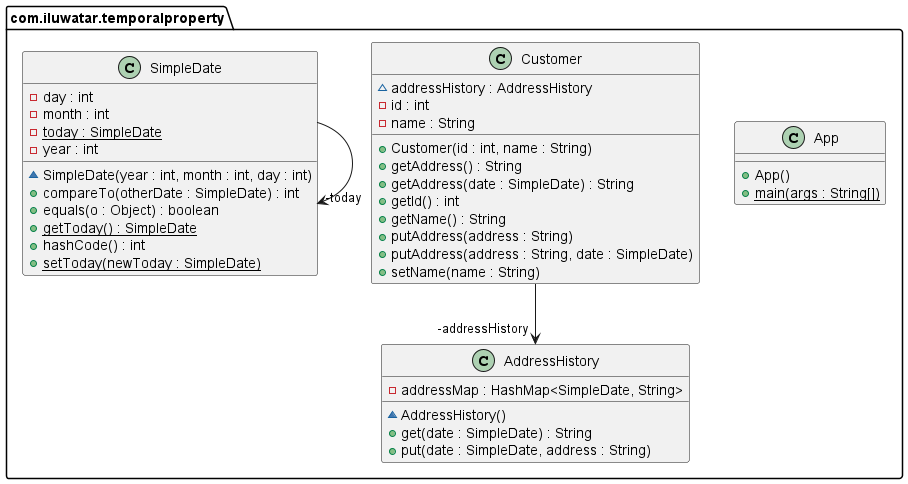
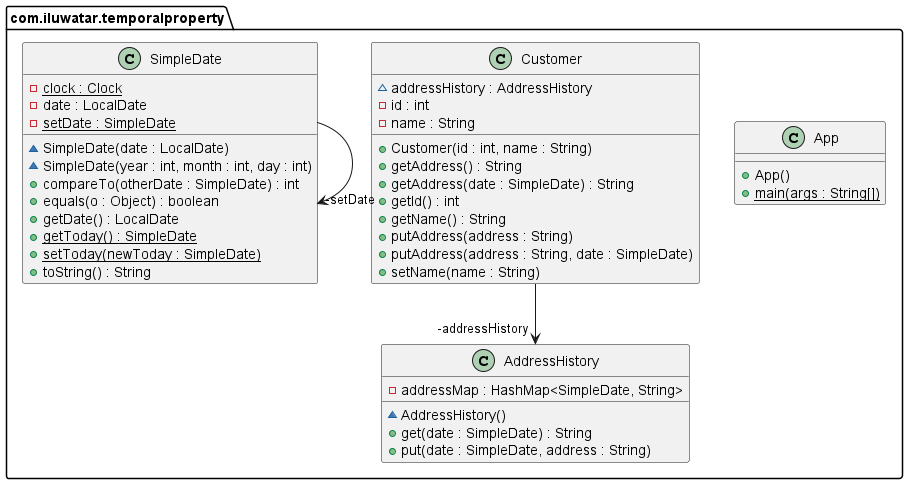
Adding changes suggested by review

Changed region(s): [[0.0308, 0.093, 0.3392, 0.5888], [0.37, 0.4029, 0.4009, 0.4339]]

diff --git a/temporal-property/src/main/java/com/iluwatar/temporalproperty/SimpleDate.java b/temporal-property/src/main/java/com/iluwatar/temporalproperty/SimpleDate.java
@@ -25,23 +25,27 @@
 
 package com.iluwatar.temporalproperty;
 
+import java.time.Clock;
+import java.time.Instant;
+import java.time.LocalDate;
+import java.time.ZoneId;
 import java.util.Objects;
 
 /**
- * Class that is used to wrap year, month, day values without correction.
- * Note that this class also does not consider different time zones being used in an implementation.
+ * Class that is used to have global now variables for LocalDate.
  */
 public class SimpleDate implements Comparable<SimpleDate> {
-  private final int year;
-  private final int month;
-  private final int day;
+  private static Clock clock = Clock.systemUTC();
+  private static SimpleDate setDate = null;
 
-  private static SimpleDate today = new SimpleDate(0, 0, 0);
+  private LocalDate date;
 
   SimpleDate(int year, int month, int day) {
-    this.year = year;
-    this.month = month;
-    this.day = day;
+    date = LocalDate.of(year, month, day);
+  }
+
+  SimpleDate(LocalDate date) {
+    this.date = date;
   }
 
   @Override
@@ -53,46 +57,25 @@ public class SimpleDate implements Comparable<SimpleDate> {
       return false;
     }
     SimpleDate that = (SimpleDate) o;
-    return year == that.year && month == that.month && day == that.day;
-  }
-
-  @Override
-  public int hashCode() {
-    return Objects.hash(year, month, day);
+    return date.equals(that.date);
   }
 
   @Override
   public int compareTo(SimpleDate otherDate) {
-    if (equals(otherDate)) {
-      return 0;
-    }
+    return date.compareTo(otherDate.getDate());
+  }
 
-    if (year > otherDate.year) {
-      return 1;
-    } else if (year < otherDate.year) {
-      return -1;
-    }
-
-    if (month > otherDate.month) {
-      return 1;
-    } else if (month < otherDate.month) {
-      return -1;
-    }
-
-    if (day > otherDate.day) {
-      return 1;
-    } else {
-      return -1;
-    }
+  public LocalDate getDate() {
+    return date;
   }
 
   /**
    * Set the value considered to be today by the simple date.
    *
-   * @param newToday The date to be set as 'today'.
+   * @param newToday The date to be used for today.
    */
   public static void setToday(SimpleDate newToday) {
-    today = newToday;
+    setDate = newToday;
   }
 
   /**
@@ -101,6 +84,14 @@ public class SimpleDate implements Comparable<SimpleDate> {
    * @return The date set to day
    */
   public static SimpleDate getToday() {
-    return today;
+    if (setDate != null) {
+      return setDate;
+    }
+    return new SimpleDate(LocalDate.now(clock));
+  }
+
+  @Override
+  public String toString() {
+    return date.toString();
   }
 }

diff --git a/temporal-property/src/test/java/com/iluwatar/temporalproperty/SimpleDateTest.java b/temporal-property/src/test/java/com/iluwatar/temporalproperty/SimpleDateTest.java
@@ -27,50 +27,23 @@ package com.iluwatar.temporalproperty;
 import org.junit.jupiter.api.Test;
 import org.junit.jupiter.api.BeforeEach;
 
+import java.time.Instant;
+
 import static org.junit.jupiter.api.Assertions.*;
 
 public class SimpleDateTest {
 
-    @BeforeEach
-    public void setup(){
-        SimpleDate.setToday(new SimpleDate(0,0,0));
-    }
-
     @Test
     public void todaySetCorrectly() {
-        SimpleDate newToday = new SimpleDate(1,2,3);
+        SimpleDate newToday = new SimpleDate(2,3,4);
 
         SimpleDate.setToday(newToday);
         assertEquals(newToday, SimpleDate.getToday());
     }
 
     @Test
-    public void dateComparison(){
-        SimpleDate less = new SimpleDate(1,2,3);
-        SimpleDate middle = new SimpleDate(2, 3, 1);
-        SimpleDate equalMiddle = new SimpleDate(2, 3, 1);
-        SimpleDate more = new SimpleDate(3, 1, 2);
-
-        assertEquals(0, middle.compareTo(equalMiddle));
-
-        assertEquals(-1, less.compareTo(middle));
-        assertEquals(-1, less.compareTo(more));
-
-        assertEquals(-1, middle.compareTo(more));
-        assertEquals(1, middle.compareTo(less));
-
-        assertEquals(1, more.compareTo(less));
-        assertEquals(1, more.compareTo(middle));
-
-        assertEquals(1, new SimpleDate(1,0,0).compareTo(new SimpleDate(0,0,0)));
-        assertEquals(-1, new SimpleDate(0,0,0).compareTo(new SimpleDate(1,0,0)));
-
-        assertEquals(1, new SimpleDate(0,1,0).compareTo(new SimpleDate(0,0,0)));
-        assertEquals(-1, new SimpleDate(0,0,0).compareTo(new SimpleDate(0,1,0)));
-
-        assertEquals(1, new SimpleDate(0,0,1).compareTo(new SimpleDate(0,0,0)));
-        assertEquals(-1, new SimpleDate(0,0,0).compareTo(new SimpleDate(0,0,1)));
-
-        assertNotEquals(null, less);
+    public void correctString(){
+        SimpleDate jul1 = new SimpleDate(1932, 7, 1);
+        assertEquals(jul1.getDate().toString(), jul1.toString());
     }
 }

diff --git a/temporal-property/src/main/java/com/iluwatar/temporalproperty/App.java b/temporal-property/src/main/java/com/iluwatar/temporalproperty/App.java
@@ -22,8 +22,10 @@
  * OUT OF OR IN CONNECTION WITH THE SOFTWARE OR THE USE OR OTHER DEALINGS IN
  * THE SOFTWARE.
  */
+
 package com.iluwatar.temporalproperty;
 
+import lombok.extern.slf4j.Slf4j;
 
 /**
  * The Temporal Property pattern is a property that changes over time.
@@ -35,6 +37,7 @@ package com.iluwatar.temporalproperty;
  * In particular, the history of all addresses are stored within a {@link AddressHistory}
  * instance which is an implementation of Temporal Property described as a Temporal Collection</p>
  */
+@Slf4j
 public class App {
 
   /**
@@ -45,7 +48,7 @@ public class App {
   public static void main(String[] args) {
     Customer john = new Customer(1234, "John");
 
-    // set today's calandar date to 1st January 2000
+    // set today's calendar date to 1st January 2000
     SimpleDate.setToday(new SimpleDate(2000, 1, 1));
 
     // set john's address at different points in time
@@ -59,11 +62,11 @@ public class App {
     SimpleDate.setToday(new SimpleDate(2000, 1, 2));
 
     // get john's address today
-    System.out.println("John lives at " + john.getAddress() + " today");
-    // get the address that john lived at on the 3rd of June 1997
-    System.out.println("John lived at " + john.getAddress(new SimpleDate(1997, 7, 3))
-            + " on the 3rd of June 1997");
+    LOGGER.info("John lives at " + john.getAddress() + " today");
 
+    // get the address that john lived at on the 3rd of June 1997
+    LOGGER.info("John lived at " + john.getAddress(new SimpleDate(1997, 7, 3))
+            + " on the 3rd of June 1997");
 
   }
 }

diff --git a/temporal-property/src/main/java/com/iluwatar/temporalproperty/Customer.java b/temporal-property/src/main/java/com/iluwatar/temporalproperty/Customer.java
@@ -31,7 +31,7 @@ public class Customer {
   private final int id;
   private String name;
 
-  AddressHistory addressHistory;
+  private final AddressHistory addressHistory;
 
   /**
    * Create new customer.

diff --git a/temporal-property/README.md b/temporal-property/README.md
@@ -5,8 +5,8 @@ folder: temporal-property
 permalink: /patterns/temporal-property/
 categories:
 - creational 
-  language: en 
-  tags:
+language: en 
+tags:
 - Data Access
 ---
 
@@ -40,6 +40,122 @@ Martin Fowler says
 
 **Programmatic Example**
 
+In this example, each `Customer` is an object with their address being a `TemporalProperty`. The 
+addresses are stored within an `AddressHistory`.
+
+Here are the relevant parts of `Customer`
+```java
+public class Customer {
+  private final int id;
+  private String name;
+
+  AddressHistory addressHistory;
+  
+  public Customer(int id, String name) {
+    this.id = id;
+    this.name = name;
+    addressHistory = new AddressHistory();
+  }
+  
+  public void putAddress(String address, SimpleDate date) {
+    addressHistory.put(date, address);
+  }
+  
+  public String getAddress(SimpleDate date) throws IllegalStateException {
+    return addressHistory.get(date);
+  }
+}
+```
+
+And here are the relevant parts of `AddressHistory`, which gets the 'best' address for a given date.
+
+```java
+public class AddressHistory {
+  private HashMap<SimpleDate, String> addressMap;
+  
+  AddressHistory() {
+    addressMap = new HashMap<>();
+  }
+  
+  public String get(SimpleDate date) throws IllegalStateException {
+    // The most recent date recorded before the given date
+    SimpleDate mostRecent = null;
+
+    for (Map.Entry<SimpleDate, String> entry : addressMap.entrySet()) {
+      SimpleDate checkDate = entry.getKey();
+      // 0 if date = check, 1 if check > date, -1 if check < date
+      int afterDate = checkDate.compareTo(date);
+
+      // given date is in map, return the address.
+      if (afterDate == 0) {
+        return entry.getValue();
+      }
+      // date being checked is after the requested.
+      if (afterDate > 0) {
+        continue;
+      }
+
+      // if first date found before the given date
+      if (mostRecent == null) {
+        mostRecent = checkDate;
+      }
+
+      // new date is after the current most recent and is before the given
+      if (checkDate.compareTo(mostRecent) > 0) {
+        mostRecent = checkDate;
+      }
+    }
+
+    if (mostRecent != null) {
+      return addressMap.get(mostRecent);
+    }
+
+    throw new IllegalStateException("Customer has no recorded address that early.");
+  }
+  
+  public void put(SimpleDate date, String address) {
+    addressMap.put(date, address);
+  }
+}
+
+```
+
+Then, we introduce an example application that makes use of this
+
+```java
+public static void main(String[] args) {
+  Customer john = new Customer(1234, "John");
+
+  // set today's calendar date to 1st January 2000
+  SimpleDate.setToday(new SimpleDate(2000, 1, 1));
+
+  // set john's address at different points in time
+
+  // Set the address where john lived on the 4th of february 1996 to 124 ave
+  john.putAddress("124 ave", new SimpleDate(1996, 2, 4));
+  // Set the address john lives in today to 123 place
+  john.putAddress("123 place");
+
+  // set the calandar day to tomorrow, the 2nd of January 2000
+  SimpleDate.setToday(new SimpleDate(2000, 1, 2));
+
+  // get john's address today
+  LOGGER.info("John lives at " + john.getAddress() + " today");
+
+  // get the address that john lived at on the 3rd of June 1997
+  LOGGER.info("John lived at " + john.getAddress(new SimpleDate(1997, 7, 3))
+  + " on the 3rd of June 1997");
+
+  }
+```
+
+With output
+
+```
+John lives at 123 place today
+John lived at 124 ave on the 3rd of June 1997
+```
+
 ## Class diagram
 
 ![alt text](./etc/temporal-property.urm.png "Temporal Property")
@@ -47,20 +163,24 @@ Martin Fowler says
 ## Applicability
 
 Use the temporal property design pattern when
-* you have a class that has a few properties that display temporal behavior, and you want easy 
+* You have a class that has a few properties that display temporal behavior, and you want easy 
   access to those temporal values. 
 
 ## Consequences
 
-Temporal properties are easy to access, and display temporality.
+Pros:
+* Easy to assess
+* Are temporal
+
+
 If most of the properties of the class are temporal, then a Temporal Object is needed instead.
 
 ## Related patterns
 
-[Effectivity](https://martinfowler.com/eaaDev/Effectivity.html)
-[Audit Log](https://martinfowler.com/eaaDev/AuditLog.html)
-[Temporal Object](https://martinfowler.com/eaaDev/TemporalObject.html)
+* [Effectivity](https://martinfowler.com/eaaDev/Effectivity.html)
+* [Audit Log](https://martinfowler.com/eaaDev/AuditLog.html)
+* [Temporal Object](https://martinfowler.com/eaaDev/TemporalObject.html)
 
 ## Credits
 
-[Temporal Property](https://martinfowler.com/eaaDev/TemporalProperty.html)
+* [Temporal Property](https://martinfowler.com/eaaDev/TemporalProperty.html)
